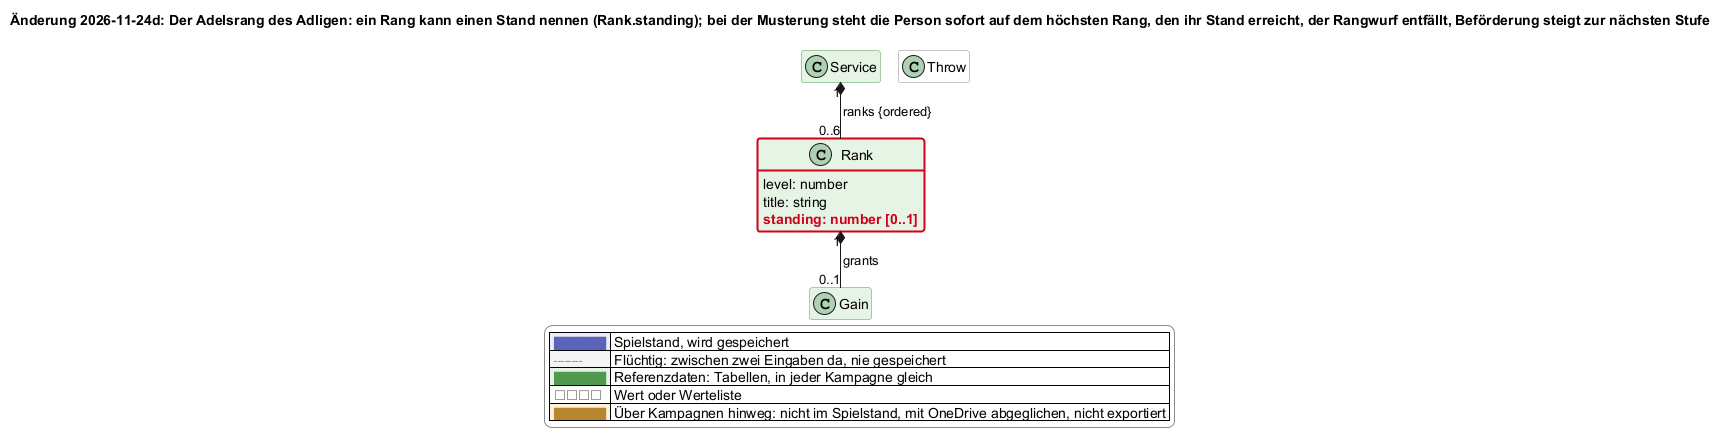
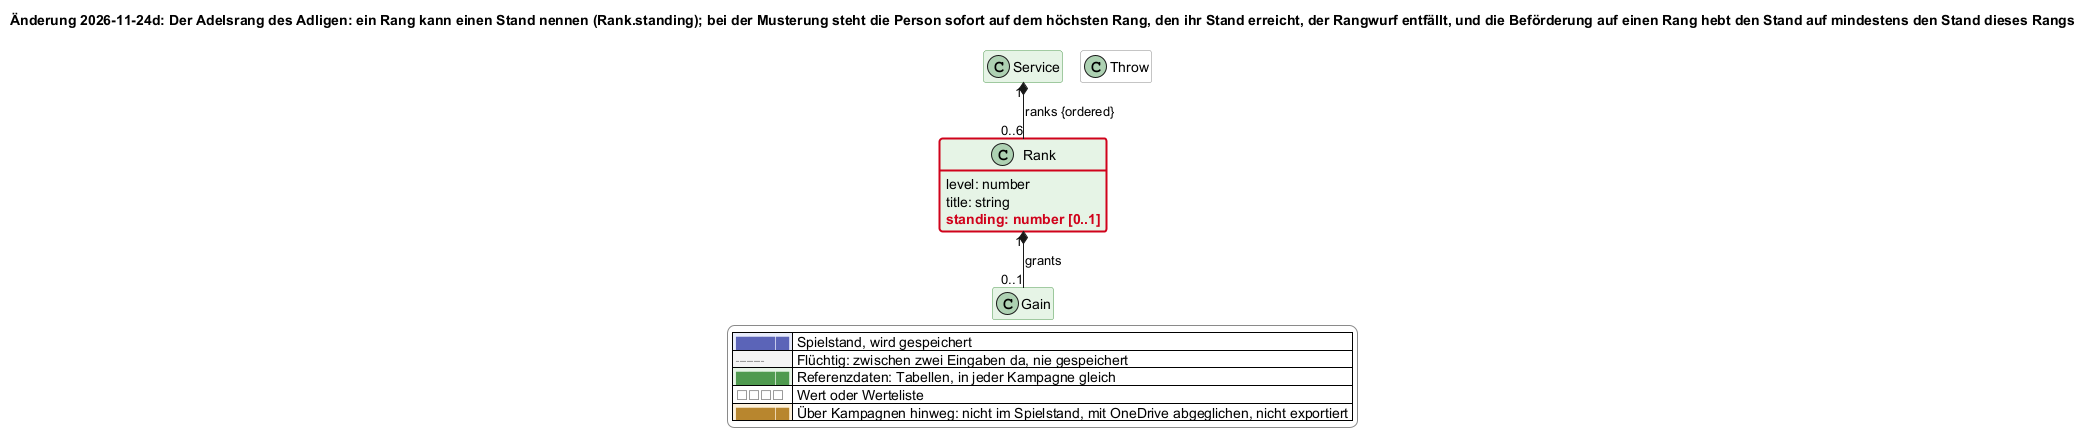
2026-11-24d ergänzt: die Beförderung hebt den Stand mit
Da der Adelsrang dem Stand folgt, darf die Beförderung den Stand nicht hinter dem Rang lassen:
Beförderung auf einen Rang mit standing setzt den Stand auf mindestens den Stand dieses Rangs,
im Lebenslauf als +1 Stand. Ein Marquis (Stand 13) wird Count mit Stand 14; wer als Knight mit
Stand 10 befördert wird, kommt auf Baron und Stand 12. Der Rangwurf und der Einstieg über den
Stand bleiben, wie sie sind – dort steigt der Stand nicht, er ist die Grundlage.

Kein neues Feld: nur die Regel zu Rank.standing. Titel der Änderung in model-views.json,
Änderungsnotiz, Begriff „Standesrang“ und der Termablauf in domain-model.md nachgezogen,
Ausschnitt neu erzeugt.

diff --git a/docs/domain-model.md b/docs/domain-model.md
@@ -655,8 +655,9 @@ Lücken unter [Wo der Code noch nicht folgt](#wo-der-code-noch-nicht-folgt).
 > Nennt die Rangtafel einer Laufbahn solche Stände, steht die Person **gleich bei der Musterung auf
 > dem höchsten Rang, den ihr Stand erreicht**, und der **Rangwurf entfällt** – wer mit Stand 13
 > eingezogen oder angenommen wird, ist Marquis, nicht Knight. **Beförderung hebt den Rang auf die
-> nächste Stufe** der Tafel (und darüber, was der Stand gibt); der höchste Rang der Tafel schließt
-> sie. Mit einem Stand **unter der untersten Stufe** (der Adlige mit 10) gibt es keinen Standesrang,
+> nächste Stufe** der Tafel – und da der Rang dem Stand folgt, **hebt jede Beförderung den Stand auf
+> mindestens den Stand des neuen Rangs** (Beförderung auf Count heißt Stand 14; als Knight mit Stand
+> 10 befördert werden heißt Stand 12). Der höchste Rang der Tafel schließt sie. Mit einem Stand **unter der untersten Stufe** (der Adlige mit 10) gibt es keinen Standesrang,
 > und die Person würfelt den Rangwurf wie jede andere. Der Adel ist die einzige Laufbahn mit
 > Standesrängen; an den übrigen ändert sich nichts, ihr `standing` ist leer.
 
@@ -922,7 +923,7 @@ Vacc Suit, Jack-of-all-Trades, …), Terms, Cr.
 | Weiterbewerbung | (Ablauf, Schritt `service`) | Scheitert die Musterung in einer Laufbahn ohne `draft`, wählt man eine andere Laufbahn und würfelt dort neu |
 | Qualifikation | `Service.needs` (`Qualification`) | Der Einstieg ohne Wurf: wer das Attribut mindestens `atLeast` hat, kommt in die Laufbahn (Adliger: SOC 10+) |
 | Rangwurf | `Service.commission` (`Service.commissionTitle`) | Der Wurf, der die unterste Rangstufe der Laufbahn gibt – bei einer Laufbahn mit Standesrängen entfällt er, wenn der Stand der Person schon einen Rang gibt; ohne `commissionTitle` heißt er „Offizierspatent“, beim Bürokraten „Gehobener Dienst“ (2026-11-24b) |
-| Standesrang | `Rank.standing` | Der Stand, ab dem dieser Rang gilt (2026-11-24d): beim Adel B (11) = Knight bis F (15) = Duke; die Rangtafel nennt ihn nur dort, sonst ist er leer |
+| Standesrang | `Rank.standing` | Der Stand, ab dem dieser Rang gilt (2026-11-24d): beim Adel B (11) = Knight bis F (15) = Duke; die Rangtafel nennt ihn nur dort, sonst ist er leer. Beförderung auf so einen Rang hebt den Stand des Charakters auf mindestens diesen Wert |
 | Rangstufe | `Rank.level` | Die Stufe eines Rangs innerhalb seiner Laufbahn; eine Laufbahn muss nicht jede Stufe haben (der Barbar kennt nur 2 und 5, 2026-11-24c) |
 | Term | (`Career./terms`) | Vier Jahre Dienst |
 | Heimatwelt | `Character.homeworld`, `Career.homeworld` | Die Welt, von der ein Charakter stammt |
@@ -2609,7 +2610,9 @@ Vacc Suit, Jack-of-all-Trades, …), Terms, Cr.
        (`Rank.level`, 2026-11-24c: beim Barbar ist das Warrior auf Stufe 2); er heißt `commissionTitle`
        und sonst „Offizierspatent“. Mit Rang unter der höchsten Rangstufe der Laufbahn (Merchants und
        Nobles haben 5):
-       Beförderung, einmal je Term, auch im Term des Patents; sie gibt die **nächste vorhandene Stufe** (beim Barbar von Warrior auf Chief) und hebt damit auch den Standesrang über den Stand hinaus. Dann die Fertigkeiten: im ersten Term 2, danach 1, bei den Scouts immer 2
+       Beförderung, einmal je Term, auch im Term des Patents; sie gibt die **nächste vorhandene Stufe** (beim Barbar von Warrior auf Chief). Bei einem Rang mit Standesrang **steigt der Stand mit**:
+       er wird mindestens der Stand dieses Rangs (`Rank.standing`), und der Lebenslauf führt ihn als
+       +1 Stand (2026-11-24d). Dann die Fertigkeiten: im ersten Term 2, danach 1, bei den Scouts immer 2
        (`skillsPerTerm`); +1 für Patent, +1 für Beförderung. Für jede wählt man eine Tabelle; die
        vierte (`minEdu` 8) nur mit EDU 8+, gemessen vor dem Wurf. Ein Rang bringt, was in ihm steht
        (`grants`, z. B. Navy Captain +1 SOC). Was bei der Musterung mitgeht (`onEnlistment`) und was
